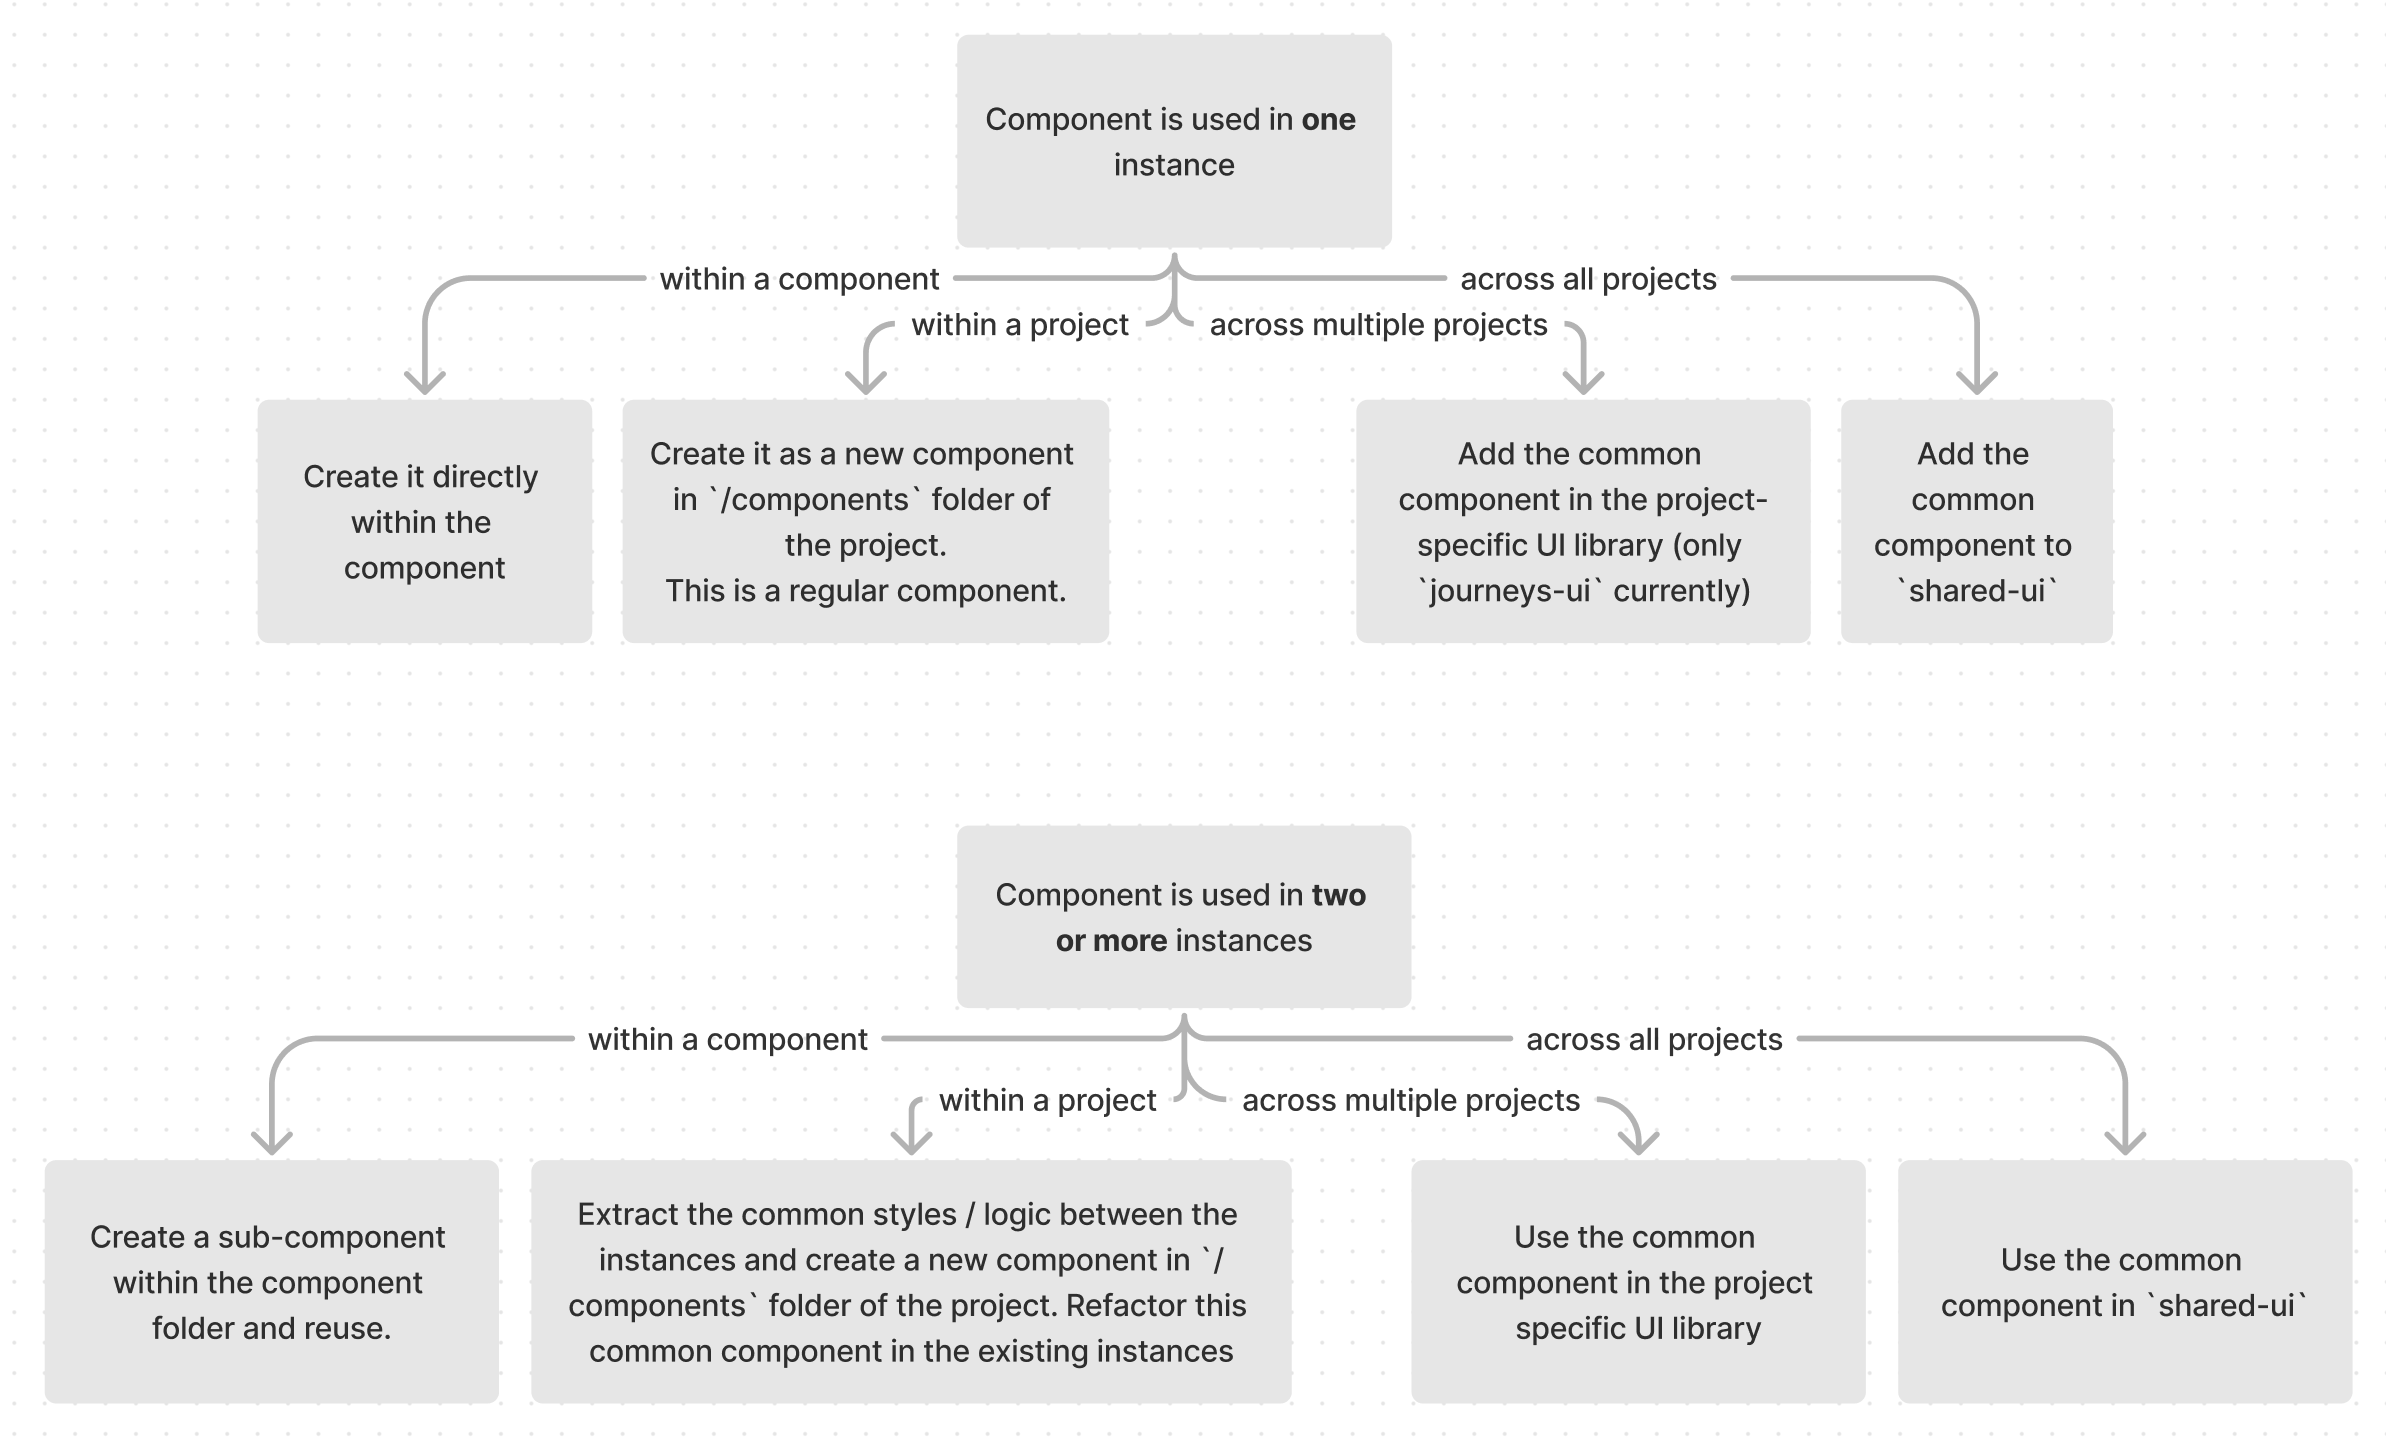
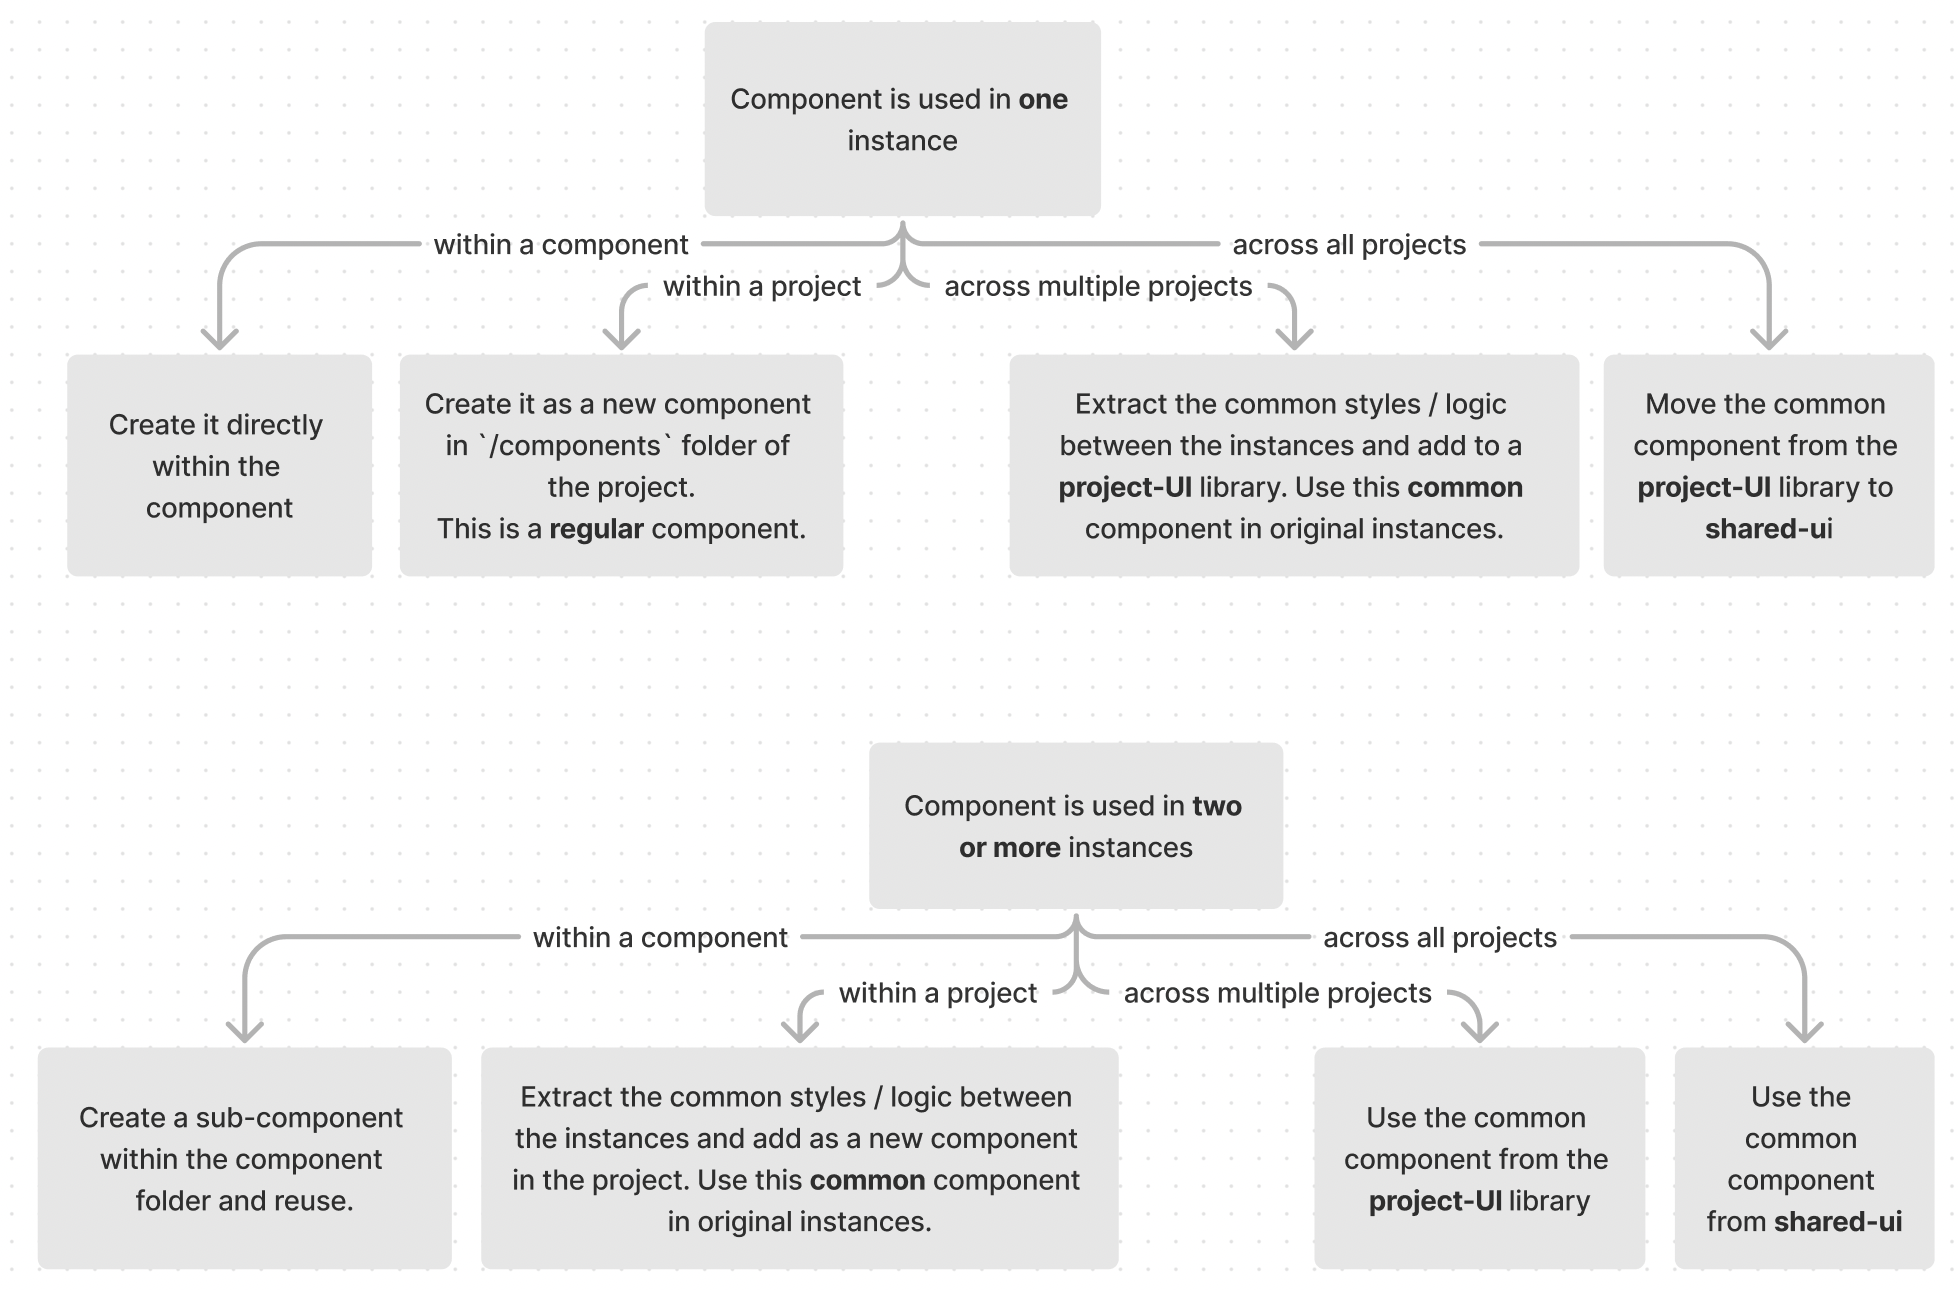
docs: update with more

diff --git a/apps/docs/docs/03-basics/03-frontend/02-component-library/index.md b/apps/docs/docs/03-basics/03-frontend/02-component-library/index.md
@@ -1,6 +1,6 @@
 # Component Libraries
 
-For each Jesus Film project ([storybook](https://storybook.core.jesusfilm.org/)), [Material UI](https://mui.com/material-ui/getting-started/overview/) is used to build the component library. `mui` is the latest web component library following the [Material Design 2](https://m2.material.io/components?platform=web) design system.
+For each Jesus Film project, [Material UI](https://mui.com/material-ui/getting-started/overview/) is used to build the component library. `mui` is the latest web component library following the [Material Design 2](https://m2.material.io/components?platform=web) design system.
 
 UX refer to Material Design to understand usage guidelines whilst developers should refer to [Material UI](https://mui.com/material-ui/getting-started/supported-components/) to understand how to build and style components.
 
@@ -34,9 +34,8 @@ Since we reuse these high level `mui` components to build many different compone
 
 We need the Mui components to look and/or function differently to the default. We apply multiple different strategies for each use case.
 
-For styling & function changes for **all** components:
-![All components](./all-components.png)
-We override the `mui` default theme with different themes. See more on theming [here](../03-theming.md).
+For styling & function changes for **all** components, we override the `mui` default theme with different themes.
+See more on project theming [here](../03-theming.md).
 
 For all other use cases:
 
@@ -46,16 +45,54 @@ For all other use cases:
 
 **Applications**
 
-- [journeys](https://your.nextstep.is/)
-- [journeys-admin](https://admin.nextstep.is/)
-- [watch](https://watch-jesusfilm.vercel.app/)
+- Contain application specific components
+  - [journeys](https://storybook.core.jesusfilm.org/?path=/story/journeys-conductor--default)
+  - [journeys-admin](https://storybook.core.jesusfilm.org/?path=/story/journeys-admin-editor--default)
+  - [watch](https://storybook.core.jesusfilm.org/?path=/story/watch-pagewrapper--default)
 
 **UI Libraries**
 
-- journey-ui: common components used in journeys & journeys-admin
-- shared-ui: common components used in all app projects
+- [journey-ui](https://storybook.core.jesusfilm.org/?path=/story/journeys-ui-card--default): common components used in `journeys` & `journeys-admin`
+- [shared-ui](https://storybook.core.jesusfilm.org/?path=/story/shared-ui-dialog--basic): common components used in all app projects
+
+**Themes**
+
+- [base](https://storybook.core.jesusfilm.org/?path=/story/default-theme--viewport): default theme for Next Steps. Includes project specific styles for journeys. (Should extract this to another theme)
+- [website](https://storybook.core.jesusfilm.org/?path=/story/website-theme--components): project theme for Jesus Film Project websites
+- [admin](https://storybook.core.jesusfilm.org/?path=/story/admin-theme--colors): project theme for admin projects.
 
 This common implementation pattern is derived from the [Atomic Web Design](https://bradfrost.com/blog/post/atomic-web-design/) approach
+
+## Component Types
+
+In our monorepo we can categorize all the components we create into **common** and **regular** components, of which there are several types:
+
+**Common components**<br/>
+Any component intended for reuse in multiple different components. This includes:
+
+- Some unique component made from multiple components like
+  > For example [journeys-admin Button](https://storybook.core.jesusfilm.org/?path=/story/journeys-admin-editor-controlpanel-button--default) is made from Mui-Box, Mui-Typography and Mui-Stack amongst others.
+- An extension of a component.
+  > For example [journeys-ui TextField](https://storybook.core.jesusfilm.org/?path=/story/journeys-ui-textfield--states) uses the `filled` variant of [Mui-TextField](https://mui.com/material-ui/react-text-field/#form-props) and adapts it to work with formik - a form management library.
+- An instance of a component
+
+  > For example [Attribute](https://storybook.core.jesusfilm.org/?path=/story/journeys-admin-editor-controlpanel-attributes-attribute--default) is a version of [journeys-admin Button](https://storybook.core.jesusfilm.org/?path=/story/journeys-admin-editor-controlpanel-button--default) which sets the `selected` and `onClick` logic.
+
+  ![Component Hierarchy](./component-types.png)
+
+**Regular components**<br/>
+Unique components only used in one other component / page. Similarly they are created by:
+
+- Unique components made from multiple components
+  > See [watch Header](https://storybook.core.jesusfilm.org/?path=/story/watch-header--default)
+- Extending a component
+  > See [ShareDialog](https://storybook.core.jesusfilm.org/?path=/story/watch-sharedialog--basic) (extended from shared-ui [Dialog](https://storybook.core.jesusfilm.org/?path=/story/shared-ui-dialog--info))
+- An instance of a component
+
+  > See [RadioOptionAttribute](https://storybook.core.jesusfilm.org/?path=/story/journeys-admin-editor-controlpanel-attributes-radiooption--filled) (instance of [Attribute](https://storybook.core.jesusfilm.org/?path=/story/journeys-admin-editor-controlpanel-attributes-attribute--default))
+
+[Visual tests](../04-storybook/index.md/#when-to-write-stories) differ based on component type.
+<br/>
 
 ## FAQs
 

diff --git a/apps/docs/docs/03-basics/03-frontend/04-storybook/index.md b/apps/docs/docs/03-basics/03-frontend/04-storybook/index.md
@@ -1,0 +1,124 @@
+# Storybook
+
+Storybook allows us to capture multiple visual variations of a component which may be difficult to reproduce by manual testing/mocking. This:
+
+- Provides the designer with an accessible overview of the component during development.
+- Creates visual state scenarios for [visual regression testing](../visual-testing).
+
+## What is a story?
+
+[A rendered state of a UI component](https://storybook.js.org/docs/react/get-started/whats-a-story)
+
+## When to write stories
+
+For instances of mui components we directly use, a `components.stories.tsx` story should be included in the shared-ui theme tokens folder. <br/>
+journeys - to be created <br/>
+[watch](https://storybook.core.jesusfilm.org/?path=/story/website-theme--components)
+
+For our own components use the following chart:
+
+![When to write stories](./when-to-write-stories.png)
+
+> Not sure how the component is made? See [component types](#component-types)
+
+A general rule of thumb would be to create a new story for each property that changes the visual state.
+
+- For example, a component with `disabled`, `size` and `variant` properties would have 3 stories.
+
+Each story should show all the visual states possible on that property.
+
+- For example, the `size` story should show that component rendered at all sizes.
+
+Sometimes, multiple properties may determine the visual state of the component. In this case, keep to the principle that each story should show one or variants of one visual state.
+
+Sometimes components require others to be visualised such as transparent containers / customized scrollbars. In this case add other components in the story template so we can visualize it.
+
+## How to write stories
+
+Storybook documents multiple ways to write stories [here](https://storybook.js.org/docs/react/writing-stories/introduction). In our code we adopt the Component Story Format ([CSF](https://storybook.js.org/docs/react/writing-stories/introduction#component-story-format)), using Templates with [args composition](https://storybook.js.org/docs/react/writing-stories/introduction#using-args) to write stories.
+
+### Basic Story Structure
+
+```
+// imports
+
+const ComponentDemo = {
+  ...projectSpecificConfig, // #1
+  component: Component,
+  title: 'Project/ComponentPath/Component' // #2
+}
+
+// #3 add mocked response
+
+// #4 add mocked data
+
+#5
+const Template: ComponentStory<typeof Component> = = ({ ...args }) => (
+  <OptionalProviders>         // #6
+    <Component {...args} />
+  </OptionalProviders>
+)
+
+export const Default = Template.bind({})
+Default.args = {
+  // add properties here
+}
+
+export const OtherStory = Template.bind({})
+OtherStory.args = {
+  ...Default.args,
+  // set properties unique to other stories
+}
+
+```
+
+Special notes:
+
+1. Each story should use it's project-specific config to correctly set the theme. If the component is simple and does not change based on viewport, use the project-specific `simpleComponentConfig`.
+
+2. See [naming components and hierarchy](https://storybook.js.org/docs/react/writing-stories/naming-components-and-hierarchy).
+
+3. We don't call apis within storybook so mock out the response. <br/>Some components may call **our apis**. The basic structure is:
+
+```
+import { MockedResponse } from '@apollo/client/testing'
+
+const exampleEventMock: MockedResponse = {
+  request: {
+    query: EXAMPLE_EVENT_UPDATE,
+    variables: {
+      // match the variables to our api response, for example
+      input: {
+        id: 'uuid',
+        otherProp: 'otherPropValue'
+      }
+    }
+  },
+  result: {
+    data: {
+      exampleEventUpdate: {
+        id: 'uuid'
+      }
+    }
+  }
+}
+```
+
+3. Some components call **external** apis. For this we use `msw`. We define the mock in a `.handlers.ts` file. See `VideoFromYouTube.handlers.ts` & `VideoFromYoutube.stories.tsx` for a usage example.
+
+4. Instead of bloating the Template or story args, we extract any complex component data. This may be defined above the Template or imported from a `data.ts` file within the same component folder. See `RadioQuestion.stories.tsx` for an example.
+
+5. Our project uses `ComponentStory<typeof Component>` as the Template type. If you need to extend the template type, use
+
+```
+Story< Parameters<typeof Component>[0] & { newProperty: NewPropertyType }
+```
+
+6.  Components sometimes references data passed to it from a parent `Provider` component. Some providers we use pass down:
+
+    - Themes (ThemeProvider)
+    - Alert functionality (SnackbarProvider)
+    - Feature flag configurations (FlagsProvider)
+    - Api data (ApolloProvider - use MockedProvider in tests/stories). <br/>
+
+    Add **only** the providers needed to render and interact with the story.

diff --git a/apps/docs/docs/03-basics/03-frontend/03-theming/index.md b/apps/docs/docs/03-basics/03-frontend/03-theming/index.md
@@ -1,0 +1,39 @@
+# Theming
+
+## Styling a regular component:
+
+- https://mui.com/material-ui/customization/how-to-customize/#1-one-off-customization
+
+## Styling a common component:
+
+- https://mui.com/material-ui/customization/how-to-customize/#2-reusable-component
+
+## Styling all components:
+
+![All components](./all-components.png)
+
+### Updating a project theme:
+
+- Make a post in the `nextsteps-frontend` slack channel with the change you intend to make. This helps all devs to anticipate the change or offer alternate solutions to the issue.
+- Go to `/libs/shared/ui/src/libs/themes`. Each folder (eg `base`, `website`) are project themes and contain a `tokens` folder.
+- Update the appropriate file in `tokens` and check the theme stories are correct and capture your update. See mui documentation for the [palette](https://mui.com/material-ui/customization/palette/), [typography](https://mui.com/material-ui/customization/typography/) and [component](https://mui.com/material-ui/customization/theme-components/) tokens.
+
+### Creating a project theme:
+
+- [Create a material theme](https://mui.com/material-ui/customization/theming/#createtheme-options-args-theme)
+- Use the `breakpoints` and `spacing` theme tokens from `base` in every new project theme. See `libs/shared/ui/src/libs/themes/website/theme.ts` for an example.
+- Update `index.ts` in `/libs/shared/ui/src/libs/themes` with the new theme name.
+
+```
+export enum ThemeName {
+  ...ExistingThemes,
+  newTheme = 'newTheme'
+}
+
+// Add within getThemes()
+ const themes = {
+    ...ExistingThemes
+    newTheme: {light: newThemeLight, dark: newThemeDark}
+  }
+
+```

diff --git a/apps/docs/docs/03-basics/03-frontend/05-visual-testing/index.md b/apps/docs/docs/03-basics/03-frontend/05-visual-testing/index.md
@@ -1,0 +1,26 @@
+# Visual Testing
+
+Testing visual components is done via 2 methods:
+
+- [Snapshot testing](https://kentcdodds.com/blog/effective-snapshot-testing) - compares the rendered HTML code for a component to some reference component HTML.
+- Visual regression testing - compares a screenshot of the component to some reference screenshot
+
+Visual regression testing alone is sufficient for our project. Using [Chromatic](https://www.chromatic.com/docs/) with [stories](../storybook/#what-is-a-story) we are able to flag code changes which produce undesired visual effects before releasing to production.
+
+Currently we have a 80k snapshot limit per month for visual regression testing.
+
+## UI Review
+
+Used by UX to review our storybook components.
+
+## UI Tests
+
+Used by devs to update the component snapshots in our unified chromatic snapshot library.
+
+## TurboSnap
+
+This feature enables Chromatic to only snap images for the affected stories.
+
+You can check if snapshots are correctly being skipped via the Turbosnap status on the UI Test page for a PR.
+
+![Turbosnap](./turbosnap.png)
